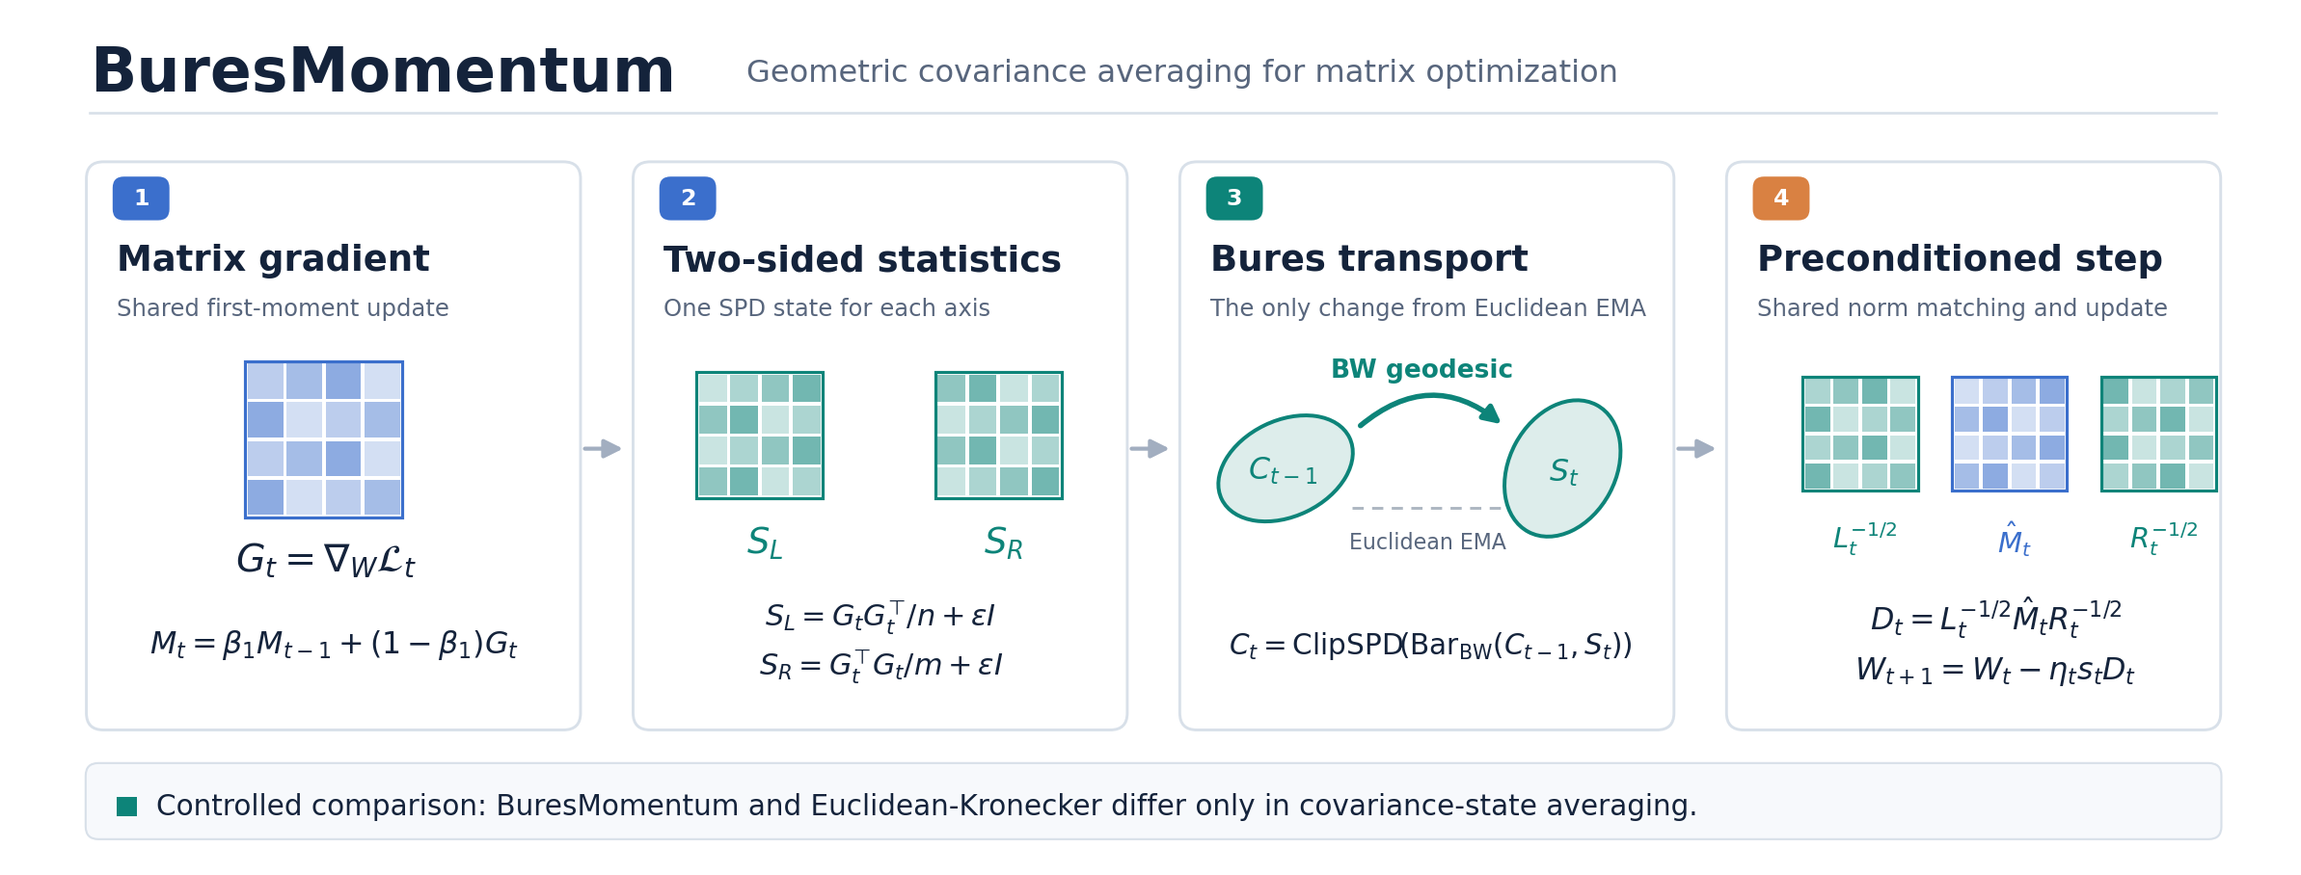
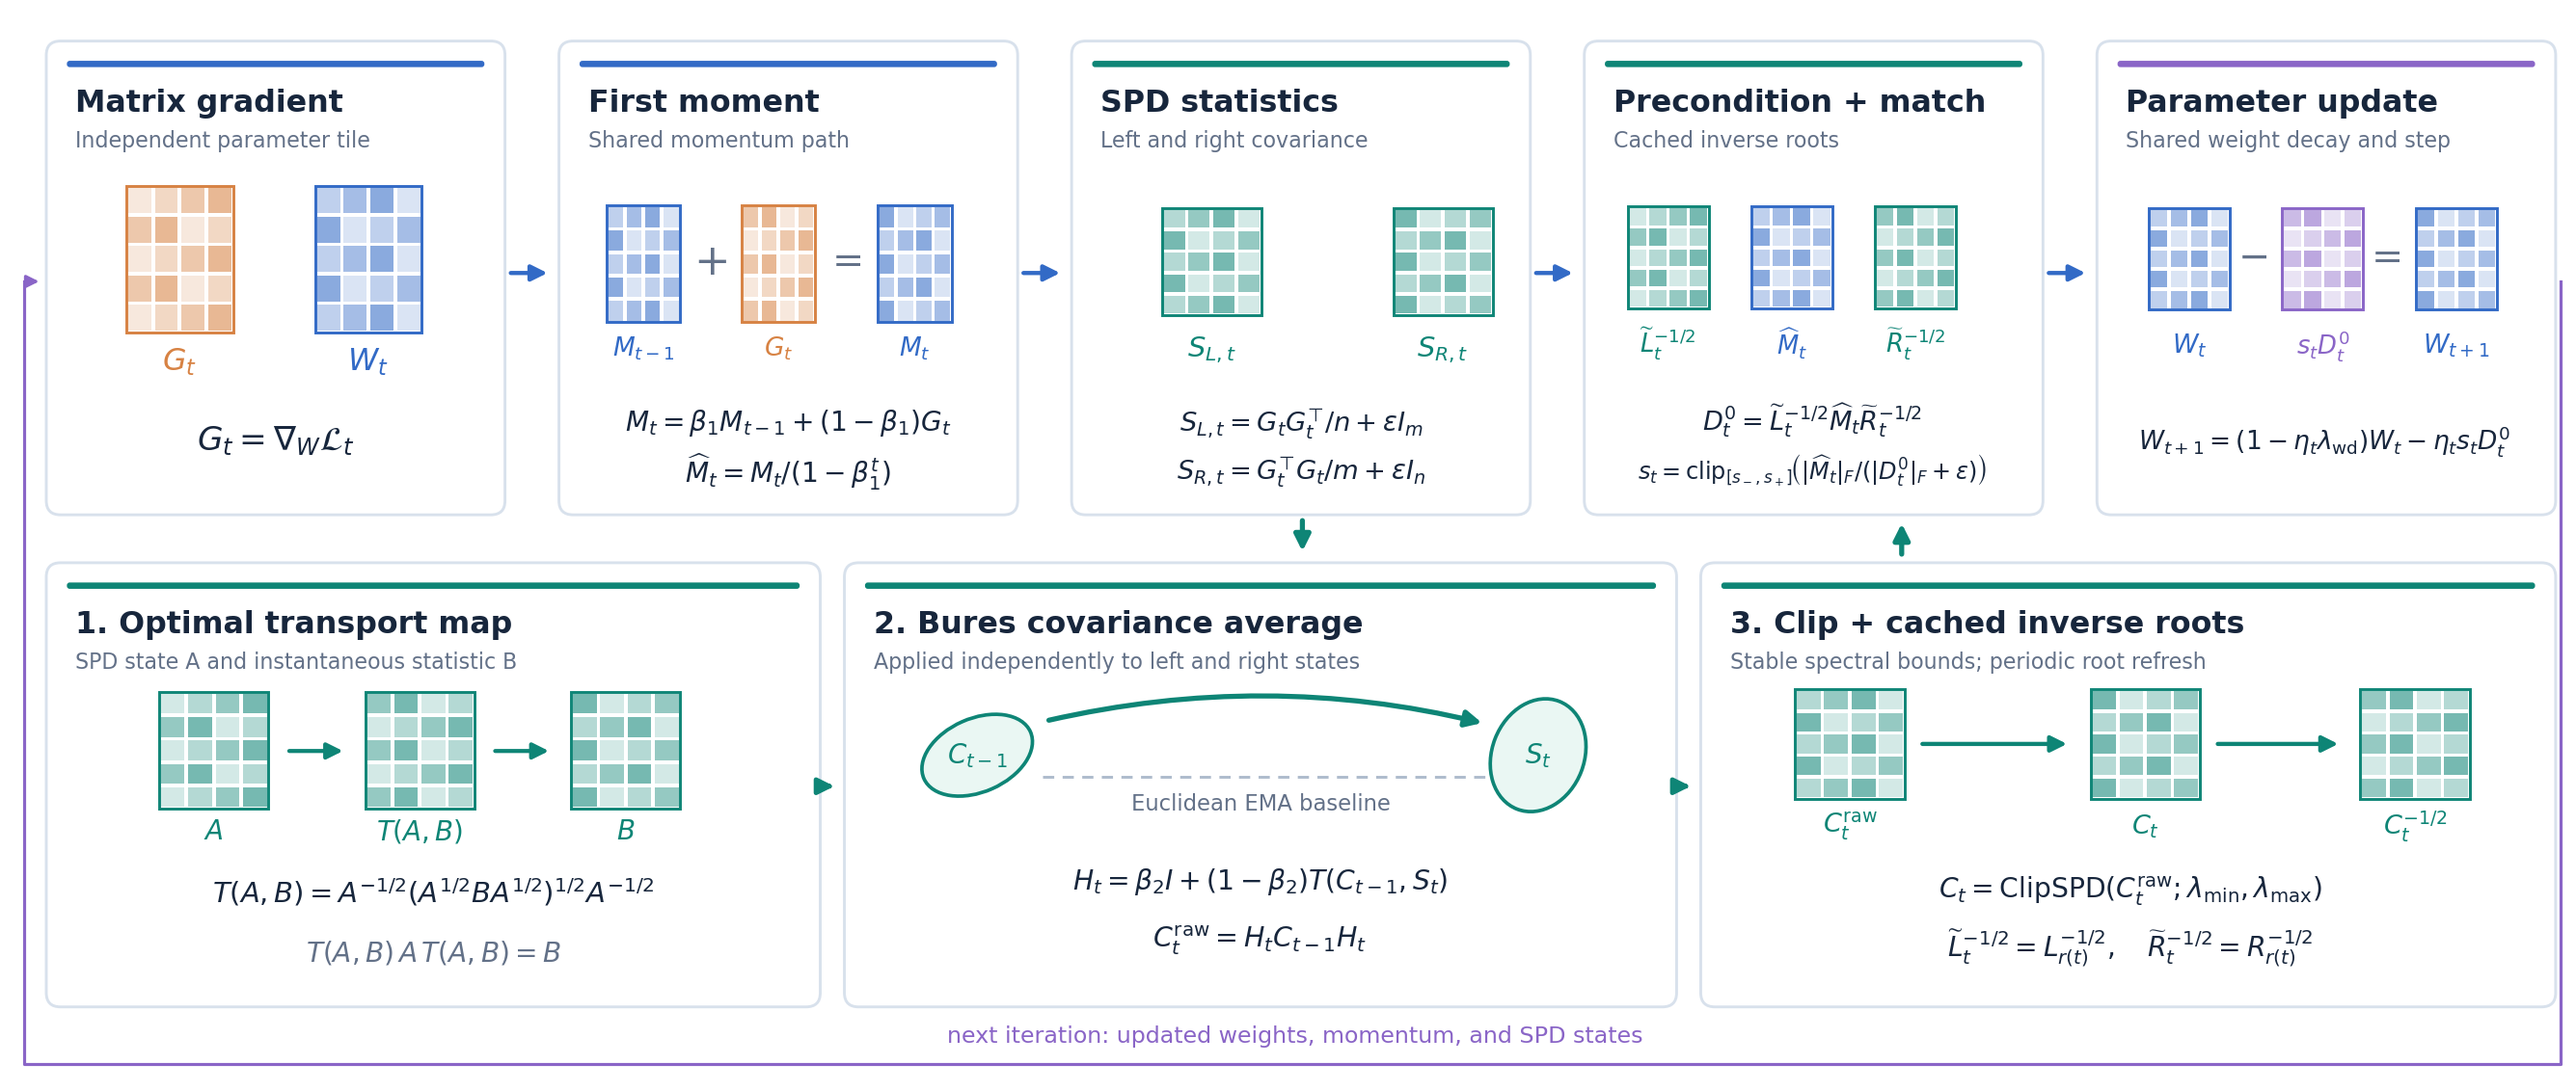
Refine README hero and centered badges

diff --git a/assets/draw_intuition.py b/assets/draw_intuition.py
@@ -1,115 +1,172 @@
-"""Render the README method diagram as a publication-style PNG."""
+"""Draw the detailed BuresMomentum method figure used in the README."""
 from pathlib import Path
 
 import matplotlib
 matplotlib.use("Agg")
 import matplotlib.pyplot as plt
-from matplotlib.patches import Arc, Ellipse, FancyArrowPatch, FancyBboxPatch, Rectangle
+from matplotlib.patches import Ellipse, FancyArrowPatch, FancyBboxPatch, Rectangle
 
 OUT = Path(__file__).with_name("buresmomentum_intuition.png")
-NAVY = "#14233B"
-MUTED = "#58667D"
-LINE = "#D8E0E9"
-TEAL = "#0D8479"
-BLUE = "#3B6FCC"
-ORANGE = "#D98142"
-PALE = "#F7F9FC"
+C = {
+    "ink": "#17263C", "muted": "#637188", "line": "#D8E1EC",
+    "blue": "#326AC6", "blue_bg": "#EFF5FF",
+    "orange": "#D78243", "orange_bg": "#FFF3EA",
+    "green": "#0E8576", "green_bg": "#EAF7F3",
+    "purple": "#8A65C7", "purple_bg": "#F6F0FD",
+    "gray": "#AEBBCC",
+}
 
-
-def label(ax, x, y, value, size=12, color=NAVY, weight="normal", **kwargs):
-    ax.text(x, y, value, fontsize=size, color=color, fontweight=weight,
-            va="center", ha="center", family="DejaVu Sans", **kwargs)
-
-
-def card(ax, x, number, title, subtitle, accent):
-    ax.add_patch(FancyBboxPatch((x, 0.95), 3.43, 3.98,
-                                boxstyle="round,pad=0.025,rounding_size=0.12",
-                                facecolor="white", edgecolor=LINE, linewidth=1.1))
-    ax.add_patch(FancyBboxPatch((x + .18, 4.56), .36, .27,
-                                boxstyle="round,pad=0.02,rounding_size=0.08",
-                                facecolor=accent, edgecolor="none"))
-    label(ax, x + .36, 4.695, str(number), 9, "white", "bold")
-    ax.text(x + .19, 4.25, title, fontsize=14, color=NAVY, fontweight="bold",
-            va="center", family="DejaVu Sans")
-    ax.text(x + .19, 3.91, subtitle, fontsize=9.2, color=MUTED,
-            va="center", family="DejaVu Sans")
-
-
-def matrix(ax, x, y, color, width=.29, n=4, pattern=0):
-    for i in range(n):
-        for j in range(n):
-            alpha = .22 + .12 * ((i * 2 + j + pattern) % 4)
-            ax.add_patch(Rectangle((x + j * width, y + (n - 1 - i) * width),
-                                   width - .025, width - .025,
-                                   facecolor=color, edgecolor="none", alpha=alpha))
-    ax.add_patch(Rectangle((x - .018, y - .018), n * width + .01, n * width + .01,
-                           fill=False, edgecolor=color, linewidth=1.2))
-
-
-fig, ax = plt.subplots(figsize=(16, 6), dpi=190)
+fig, ax = plt.subplots(figsize=(18, 7.6), dpi=190)
 fig.patch.set_facecolor("white")
-ax.set(xlim=(0, 16), ylim=(0, 6))
+ax.set(xlim=(0, 18), ylim=(0, 7.6))
 ax.axis("off")
 
-ax.text(.53, 5.58, "BuresMomentum", fontsize=24, color=NAVY,
-        fontweight="bold", va="center", family="DejaVu Sans")
-ax.text(5.15, 5.58, "Geometric covariance averaging for matrix optimization",
-        fontsize=12.2, color=MUTED, va="center", family="DejaVu Sans")
-ax.plot([.53, 15.5], [5.30, 5.30], color=LINE, linewidth=1)
 
-xs = [.53, 4.38, 8.23, 12.08]
-card(ax, xs[0], 1, "Matrix gradient", "Shared first-moment update", BLUE)
-card(ax, xs[1], 2, "Two-sided statistics", "One SPD state for each axis", BLUE)
-card(ax, xs[2], 3, "Bures transport", "The only change from Euclidean EMA", TEAL)
-card(ax, xs[3], 4, "Preconditioned step", "Shared norm matching and update", ORANGE)
+def txt(x, y, value, size=11, color="ink", weight="normal", ha="center"):
+    ax.text(x, y, value, fontsize=size, color=C.get(color, color), fontweight=weight,
+            va="center", ha=ha, family="DejaVu Sans")
 
-for x in (3.98, 7.83, 11.68):
-    ax.add_patch(FancyArrowPatch((x, 2.92), (x + .34, 2.92),
-                                 arrowstyle="-|>", mutation_scale=15,
-                                 linewidth=1.6, color="#A2AEC0"))
 
-matrix(ax, 1.64, 2.45, BLUE, width=.275, pattern=1)
-label(ax, 2.19, 2.13, r"$G_t=\nabla_W\mathcal{L}_t$", 15)
-label(ax, 2.25, 1.53, r"$M_t=\beta_1M_{t-1}+(1-\beta_1)G_t$", 12)
+def box(x, y, w, h, accent, title, subtitle):
+    ax.add_patch(FancyBboxPatch((x, y), w, h,
+                                boxstyle="round,pad=0.025,rounding_size=0.10",
+                                facecolor="white", edgecolor=C["line"], linewidth=1.10))
+    ax.add_patch(FancyBboxPatch((x + .12, y + h - .16), w - .24, .045,
+                                boxstyle="round,pad=0.0,rounding_size=0.02",
+                                facecolor=C[accent], edgecolor="none"))
+    txt(x + .18, y + h - .41, title, 12.0, "ink", "bold", ha="left")
+    txt(x + .18, y + h - .68, subtitle, 8.4, "muted", ha="left")
 
-matrix(ax, 4.82, 2.59, TEAL, width=.22, pattern=0)
-matrix(ax, 6.50, 2.59, TEAL, width=.22, pattern=2)
-label(ax, 5.28, 2.25, r"$S_L$", 14, TEAL, "bold")
-label(ax, 6.96, 2.25, r"$S_R$", 14, TEAL, "bold")
-label(ax, 6.10, 1.72, r"$S_L=G_tG_t^\top/n+\epsilon I$", 11.5)
-label(ax, 6.10, 1.37, r"$S_R=G_t^\top G_t/m+\epsilon I$", 11.5)
 
-ax.add_patch(Ellipse((8.95, 2.78), 1.00, .68, angle=26, facecolor="#DDEDEB",
-                     edgecolor=TEAL, linewidth=1.5))
-ax.add_patch(Ellipse((10.90, 2.78), .75, 1.02, angle=-28, facecolor="#DDEDEB",
-                     edgecolor=TEAL, linewidth=1.5))
-label(ax, 8.93, 2.76, r"$C_{t-1}$", 12, TEAL, "bold")
-label(ax, 10.91, 2.75, r"$S_t$", 12, TEAL, "bold")
-ax.add_patch(FancyArrowPatch((9.45, 3.06), (10.50, 3.07),
-                             connectionstyle="arc3,rad=-.43", arrowstyle="-|>",
-                             mutation_scale=14, linewidth=2.1, color=TEAL))
-label(ax, 9.91, 3.47, "BW geodesic", 10, TEAL, "bold")
-ax.plot([9.42, 10.49], [2.50, 2.50], color="#ADB6C1", linestyle=(0, (4, 3)), linewidth=1.1)
-label(ax, 9.95, 2.25, "Euclidean EMA", 8.4, MUTED)
-label(ax, 9.97, 1.52, r"$C_t=\mathrm{ClipSPD}\!\left(\mathrm{Bar}_{\mathrm{BW}}(C_{t-1},S_t)\right)$", 11.2)
+def matrix(x, y, w=.64, h=.85, color="blue", pattern=0):
+    cols, rows = 4, 5
+    cw, ch = w / cols, h / rows
+    for i in range(rows):
+        for j in range(cols):
+            alpha = .18 + .13 * ((2*i + j + pattern) % 4)
+            ax.add_patch(Rectangle((x + j*cw + .012, y + i*ch + .012),
+                                   cw - .025, ch - .025, facecolor=C[color],
+                                   edgecolor="none", alpha=alpha))
+    ax.add_patch(Rectangle((x, y), w, h, fill=False, edgecolor=C[color], linewidth=1.10))
 
-matrix(ax, 12.61, 2.64, TEAL, width=.20, pattern=1)
-matrix(ax, 13.66, 2.64, BLUE, width=.20, pattern=0)
-matrix(ax, 14.71, 2.64, TEAL, width=.20, pattern=3)
-label(ax, 13.03, 2.28, r"$L_t^{-1/2}$", 11, TEAL)
-label(ax, 14.08, 2.28, r"$\hat M_t$", 11, BLUE)
-label(ax, 15.13, 2.28, r"$R_t^{-1/2}$", 11, TEAL)
-label(ax, 13.95, 1.72, r"$D_t=L_t^{-1/2}\hat M_t R_t^{-1/2}$", 12)
-label(ax, 13.95, 1.34, r"$W_{t+1}=W_t-\eta_t s_tD_t$", 12)
 
-ax.add_patch(FancyBboxPatch((.53, .18), 14.98, .48,
-                            boxstyle="round,pad=0.03,rounding_size=0.09",
-                            facecolor=PALE, edgecolor=LINE, linewidth=.8))
-ax.add_patch(Rectangle((.72, .31), .14, .14, facecolor=TEAL, edgecolor="none"))
-ax.text(1.00, .38,
-        "Controlled comparison: BuresMomentum and Euclidean-Kronecker differ only in covariance-state averaging.",
-        fontsize=11.2, color=NAVY, va="center", family="DejaVu Sans")
+def arrow(start, end, color="gray", width=1.65, style="-|>", scale=13,
+          connection="arc3"):
+    ax.add_patch(FancyArrowPatch(start, end, arrowstyle=style, mutation_scale=scale,
+                                 linewidth=width, color=C[color],
+                                 connectionstyle=connection))
 
-fig.savefig(OUT, dpi=190, facecolor="white", bbox_inches="tight", pad_inches=.08)
+
+# Top row: the full optimizer update.
+top_y, top_h, top_w = 4.04, 3.31, 3.18
+top_x = [.28, 3.89, 7.50, 11.11, 14.72]
+for args in [
+    (top_x[0], "blue", "Matrix gradient", "Independent parameter tile"),
+    (top_x[1], "blue", "First moment", "Shared momentum path"),
+    (top_x[2], "green", "SPD statistics", "Left and right covariance"),
+    (top_x[3], "green", "Precondition + match", "Cached inverse roots"),
+    (top_x[4], "purple", "Parameter update", "Shared weight decay and step"),
+]:
+    box(args[0], top_y, top_w, top_h, args[1], args[2], args[3])
+for x in [3.49, 7.10, 10.71, 14.32]:
+    arrow((x, 5.73), (x+.33, 5.73), "blue")
+
+# 1: gradient and parameter tile.
+matrix(.82, 5.31, .75, 1.04, "orange", 0)
+matrix(2.15, 5.31, .75, 1.04, "blue", 1)
+txt(1.19, 5.10, r"$G_t$", 12, "orange")
+txt(2.52, 5.10, r"$W_t$", 12, "blue")
+txt(1.87, 4.54, r"$G_t=\nabla_{W}\mathcal{L}_t$", 13)
+
+# 2: shared momentum, visualized as old state + gradient -> new state.
+matrix(4.20, 5.38, .52, .83, "blue", 1)
+matrix(5.15, 5.38, .52, .83, "orange", 2)
+matrix(6.11, 5.38, .52, .83, "blue", 3)
+txt(4.46, 5.20, r"$M_{t-1}$", 10, "blue")
+txt(5.41, 5.20, r"$G_t$", 10, "orange")
+txt(6.37, 5.20, r"$M_t$", 10, "blue")
+txt(4.94, 5.81, "+", 17, "muted")
+txt(5.90, 5.81, "=", 15, "muted")
+txt(5.48, 4.67, r"$M_t=\beta_1M_{t-1}+(1-\beta_1)G_t$", 10.6)
+txt(5.48, 4.32, r"$\widehat M_t=M_t/(1-\beta_1^t)$", 10.6)
+
+# 3: the two per-axis Gram statistics.
+matrix(8.11, 5.43, .70, .76, "green", 1)
+matrix(9.74, 5.43, .70, .76, "green", 3)
+txt(8.46, 5.19, r"$S_{L,t}$", 11, "green")
+txt(10.09, 5.19, r"$S_{R,t}$", 11, "green")
+txt(9.09, 4.66, r"$S_{L,t}=G_tG_t^\top/n+\varepsilon I_m$", 10.4)
+txt(9.09, 4.32, r"$S_{R,t}=G_t^\top G_t/m+\varepsilon I_n$", 10.4)
+
+# 4: preconditioning and norm matching.
+for x, color, name, pat in [(11.39, "green", r"$\widetilde L_t^{-1/2}$", 0),
+                            (12.26, "blue", r"$\widehat M_t$", 1),
+                            (13.13, "green", r"$\widetilde R_t^{-1/2}$", 2)]:
+    matrix(x, 5.48, .57, .72, color, pat)
+    txt(x+.285, 5.23, name, 9.8, color)
+txt(12.69, 4.69, r"$D_t^0=\widetilde L_t^{-1/2}\widehat M_t\widetilde R_t^{-1/2}$", 10.3)
+txt(12.69, 4.33, r"$s_t=\operatorname{clip}_{[s_-,s_+]}\!\left(\|\widehat M_t\|_F/(\|D_t^0\|_F+\varepsilon)\right)$", 9.1)
+
+# 5: decoupled decay and parameter update.
+matrix(15.06, 5.47, .57, .72, "blue", 1)
+matrix(16.00, 5.47, .57, .72, "purple", 2)
+matrix(16.94, 5.47, .57, .72, "blue", 3)
+txt(15.345, 5.22, r"$W_t$", 10.2, "blue")
+txt(16.285, 5.22, r"$s_tD_t^0$", 9.8, "purple")
+txt(17.225, 5.22, r"$W_{t+1}$", 10.2, "blue")
+txt(15.80, 5.84, "−", 15, "muted")
+txt(16.74, 5.84, "=", 15, "muted")
+txt(16.30, 4.54, r"$W_{t+1}=(1-\eta_t\lambda_{\rm wd})W_t-\eta_ts_tD_t^0$", 10.0)
+
+# Lower row: expand the geometric covariance branch.
+low_y, low_h = .55, 3.10
+box(.28, low_y, 5.40, low_h, "green", "1. Optimal transport map", "SPD state A and instantaneous statistic B")
+box(5.90, low_y, 5.81, low_h, "green", "2. Bures covariance average", "Applied independently to left and right states")
+box(11.93, low_y, 5.97, low_h, "green", "3. Clip + cached inverse roots", "Stable spectral bounds; periodic root refresh")
+
+# Lower 1: transport map.
+for x, label_, pat in [(1.05, r"$A$", 0), (2.50, r"$T(A,B)$", 2), (3.95, r"$B$", 3)]:
+    matrix(x, 1.93, .77, .83, "green", pat)
+    txt(x+.385, 1.77, label_, 10.5, "green")
+arrow((1.93, 2.34), (2.38, 2.34), "green", 1.6)
+arrow((3.38, 2.34), (3.83, 2.34), "green", 1.6)
+txt(2.98, 1.34, r"$T(A,B)=A^{-1/2}(A^{1/2}BA^{1/2})^{1/2}A^{-1/2}$", 11)
+txt(2.98, .91, r"$T(A,B)\,A\,T(A,B)=B$", 10.6, "muted")
+
+# Lower 2: geodesic rather than Euclidean averaging.
+ax.add_patch(Ellipse((6.81, 2.31), .82, .52, angle=24,
+                     facecolor=C["green_bg"], edgecolor=C["green"], linewidth=1.4))
+ax.add_patch(Ellipse((10.76, 2.31), .65, .82, angle=-21,
+                     facecolor=C["green_bg"], edgecolor=C["green"], linewidth=1.4))
+txt(6.81, 2.31, r"$C_{t-1}$", 10.5, "green")
+txt(10.76, 2.31, r"$S_t$", 10.5, "green")
+arrow((7.28, 2.55), (10.40, 2.53), "green", 2.0, connection="arc3,rad=-.12")
+ax.plot([7.27, 10.40], [2.16, 2.16], color=C["gray"], lw=1.1, ls=(0, (4, 3)))
+txt(8.81, 1.97, "Euclidean EMA baseline", 8.6, "muted")
+txt(8.80, 1.42, r"$H_t=\beta_2I+(1-\beta_2)T(C_{t-1},S_t)$", 10.7)
+txt(8.80, 1.00, r"$C_t^{\rm raw}=H_tC_{t-1}H_t$", 10.8)
+
+# Lower 3: clipping and inverse-root cache.
+matrix(12.57, 2.00, .77, .78, "green", 1)
+matrix(14.65, 2.00, .77, .78, "green", 3)
+matrix(16.55, 2.00, .77, .78, "green", 2)
+txt(12.955, 1.81, r"$C_t^{\rm raw}$", 10.3, "green")
+txt(15.035, 1.81, r"$C_t$", 10.3, "green")
+txt(16.935, 1.81, r"$C_t^{-1/2}$", 10.3, "green")
+arrow((13.43, 2.39), (14.52, 2.39), "green")
+arrow((15.51, 2.39), (16.43, 2.39), "green")
+txt(14.93, 1.35, r"$C_t=\mathrm{ClipSPD}(C_t^{\rm raw};\lambda_{\min},\lambda_{\max})$", 10.7)
+txt(14.93, .95, r"$\widetilde L_t^{-1/2}=L_{r(t)}^{-1/2},\quad\widetilde R_t^{-1/2}=R_{r(t)}^{-1/2}$", 10.7)
+
+# Geometry subflow and the next-iteration return.
+arrow((9.10, 4.01), (9.10, 3.72), "green", 2.0)
+arrow((5.70, 2.09), (5.84, 2.09), "green", 1.8)
+arrow((11.73, 2.09), (11.87, 2.09), "green", 1.8)
+arrow((13.32, 3.70), (13.32, 3.99), "green", 2.0)
+ax.plot([17.96, 17.96, .10, .10], [5.67, .12, .12, 5.67], color=C["purple"], lw=1.2)
+arrow((.10, 5.67), (.24, 5.67), "purple", 1.2, scale=10)
+txt(9.05, .32, "next iteration: updated weights, momentum, and SPD states", 9.0, "purple")
+
+fig.savefig(OUT, facecolor="white", dpi=190, bbox_inches="tight", pad_inches=.055)
 plt.close(fig)
 print(OUT)

diff --git a/README.md b/README.md
@@ -1,21 +1,35 @@
-<div align="center">
+<h1 align="center">BuresMomentum</h1>
+<p align="center"><strong>Bures–Wasserstein covariance averaging for matrix preconditioning</strong></p>
+<p align="center">Official PyTorch implementation and experiment suite.</p>
 
-# BuresMomentum
+<p align="center">
+  <a href="https://github.com/Hik289/manifold-momentum-optimization/actions/workflows/ci.yml"><img src="https://github.com/Hik289/manifold-momentum-optimization/actions/workflows/ci.yml/badge.svg" alt="Core checks"></a>
+  <a href="pyproject.toml"><img src="https://img.shields.io/badge/Python-3.10%2B-3776AB.svg" alt="Python 3.10+"></a>
+  <a href="pyproject.toml"><img src="https://img.shields.io/badge/PyTorch-2.1%2B-EE4C2C.svg" alt="PyTorch 2.1+"></a>
+  <a href="LICENSE"><img src="https://img.shields.io/badge/License-MIT-0D8479.svg" alt="MIT License"></a>
+</p>
 
-### Bures–Wasserstein covariance averaging for matrix preconditioning
+<p align="center">
+  <a href="#installation">Installation</a> ·
+  <a href="#quick-start">Quick start</a> ·
+  <a href="#reproducing-experiments">Experiments</a> ·
+  <a href="#repository-map">Code map</a>
+</p>
 
-[![Core checks](https://github.com/Hik289/manifold-momentum-optimization/actions/workflows/ci.yml/badge.svg)](https://github.com/Hik289/manifold-momentum-optimization/actions/workflows/ci.yml)
-[![Python 3.10+](https://img.shields.io/badge/Python-3.10%2B-3776AB?logo=python&logoColor=white)](https://www.python.org/)
-[![PyTorch](https://img.shields.io/badge/PyTorch-2.1%2B-EE4C2C?logo=pytorch&logoColor=white)](https://pytorch.org/)
-[![License: MIT](https://img.shields.io/badge/License-MIT-0D8479)](LICENSE)
-
-[**Install**](#installation) · [**Quick start**](#quick-start) · [**Reproduce**](#reproducing-experiments) · [**Code map**](#repository-map)
-
-</div>
-
-![Four-stage BuresMomentum update: matrix gradient, two-sided statistics, Bures covariance transport, and the preconditioned parameter step.](assets/buresmomentum_intuition.png)
+<p align="center">
+  <img src="assets/buresmomentum_intuition.png" width="96%" alt="Detailed BuresMomentum matrix update schematic">
+</p>
 
 BuresMomentum changes **how the left and right covariance states are averaged**. The matrix gradient, first moment, inverse-root preconditioning, norm matching, and parameter step are shared with a paired Euclidean–Kronecker optimizer. This isolates the effect of Bures–Wasserstein (BW) geometry.
+
+## At a glance
+
+| | |
+|:--|:--|
+| **Core idea** | Update two-sided SPD covariance states by a BW two-point barycenter. |
+| **Controlled baseline** | `covariance_rule="euclidean"` changes only the covariance averaging step. |
+| **Fast verification** | 15 numerical geometry checks and a deterministic CPU quickstart. |
+| **Reproduction** | Declared job manifests, data preparation, matched runners, and diagnostics. |
 
 For a matrix gradient $G_t$, the two statistics are
 
